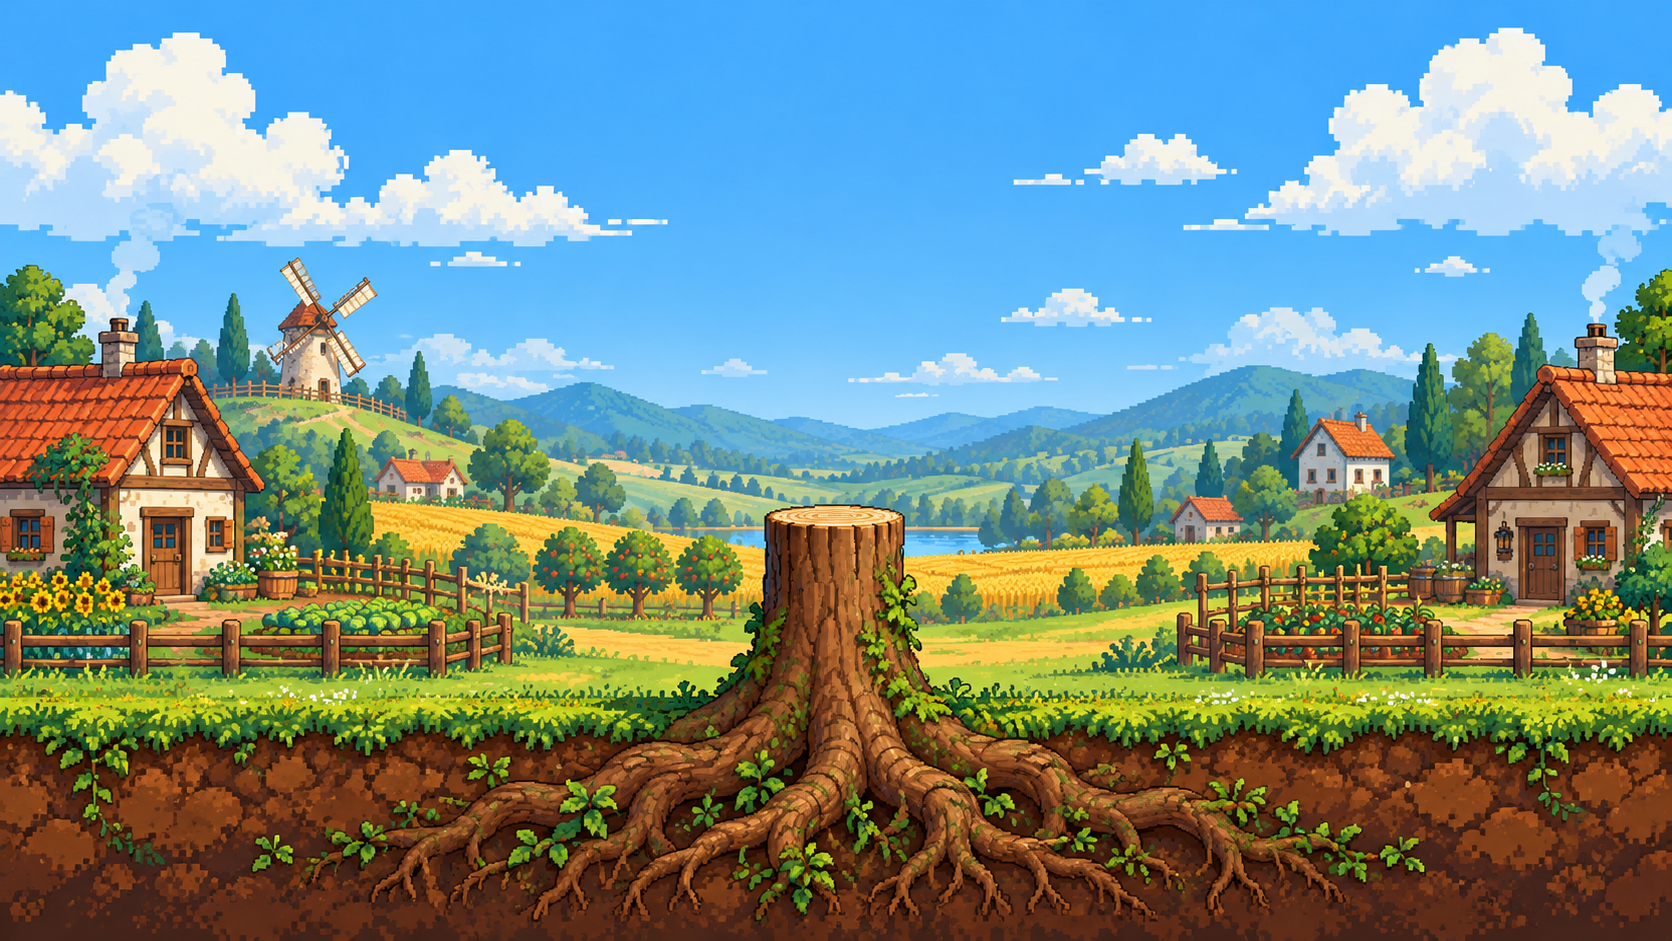
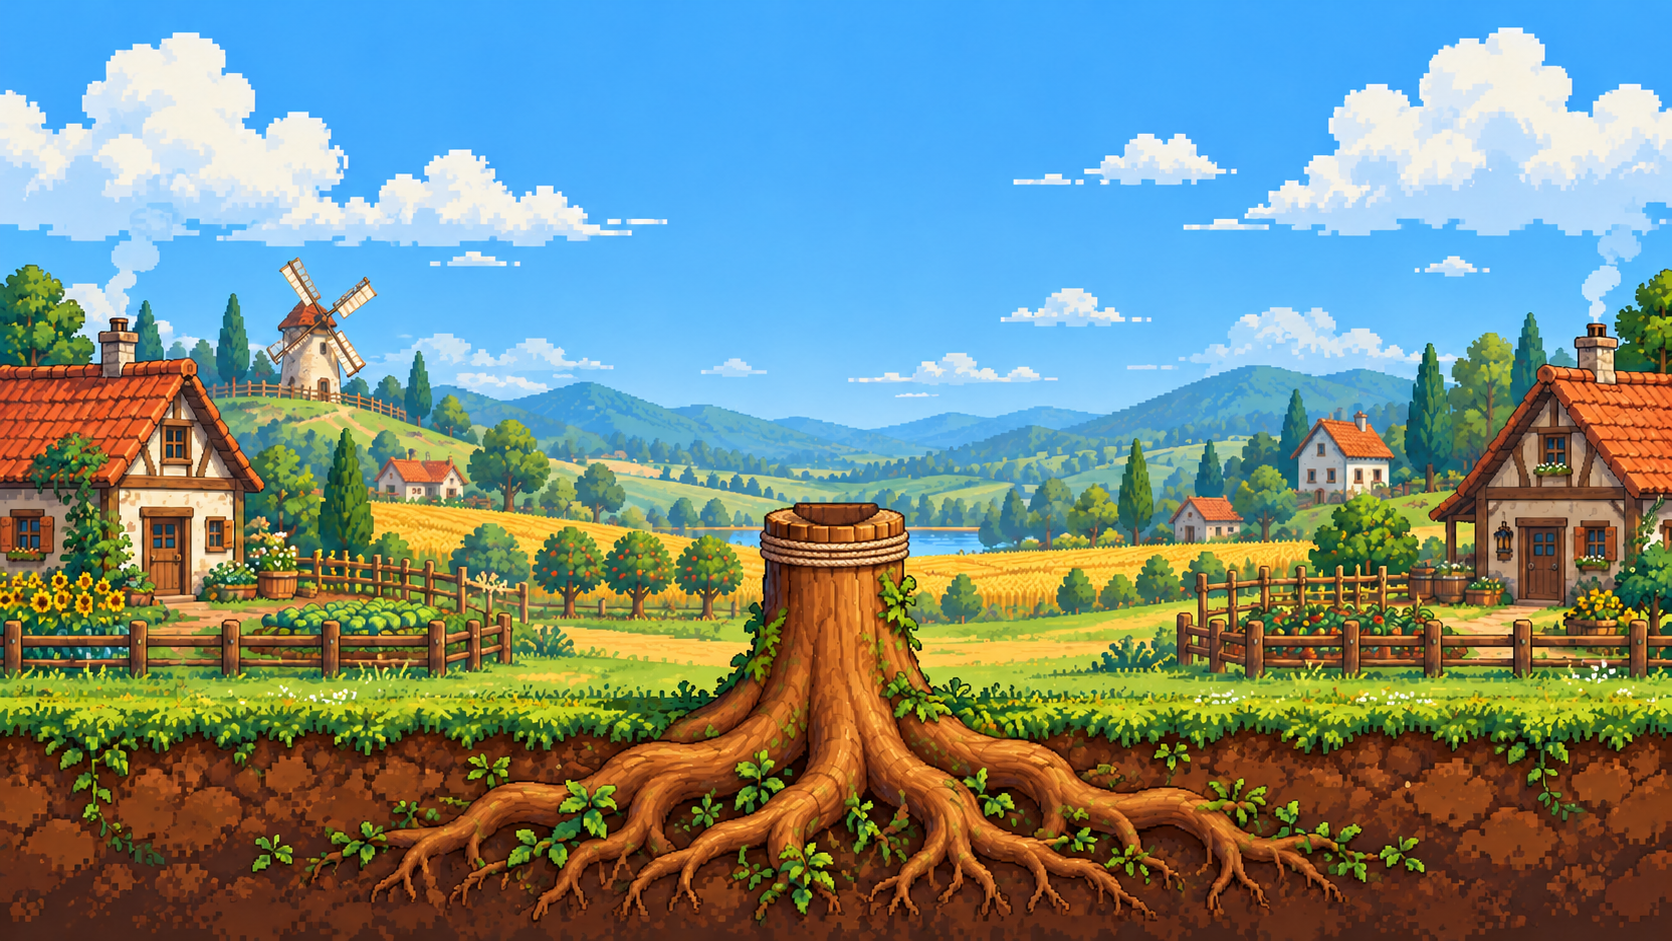
Match tree fulcrum to farm plank and verify music and reaction audio

Changed region(s): [[0.0, 0.2774, 1.0, 0.9862], [0.7464, 0.4931, 0.7775, 0.5239], [0.311, 0.4623, 0.3421, 0.4931]]

diff --git a/Assets/Tests/PlayMode/ControllerAudioTests.cs b/Assets/Tests/PlayMode/ControllerAudioTests.cs
@@ -68,6 +68,29 @@ namespace BalanceWithMe.Tests
             game.boy.Emote();Assert.That(game.sounds.LastCue,Is.EqualTo("emote_happy"));
             game.boy.TryAction(PlayerActions.ActionType.Punch);Assert.That(game.sounds.LastCue,Is.EqualTo("punch"));
         }
+        [UnityTest] public IEnumerator BackgroundLoopsAndBothEmoteJinglesPlay()
+        {
+            Assert.That(game.sounds.music.loop,Is.True);
+            Assert.That(game.sounds.music.isPlaying,Is.True);
+            Assert.That(game.sounds.music.clip,Is.SameAs(game.sounds.tracks[0]));
+            game.boy.Emote();Assert.That(game.sounds.LastCue,Is.EqualTo("emote_happy"));
+            yield return new WaitForSeconds(1.3f);
+            game.boy.Emote();Assert.That(game.sounds.LastCue,Is.EqualTo("emote_sad"));
+            game.sounds.NextTrack();
+            Assert.That(game.sounds.music.clip,Is.SameAs(game.sounds.tracks[1]));
+            Assert.That(game.sounds.music.isPlaying,Is.True);
+        }
+        [UnityTest] public IEnumerator HitAndResultReactionsHaveAudio()
+        {
+            game.boy.body.position=new Vector2(-.4f,.1f);
+            game.girl.body.position=new Vector2(.4f,.1f);
+            game.boy.TryAction(PlayerActions.ActionType.Punch);game.boy.AdvanceAction(.1f);
+            Assert.That(game.sounds.LastCue,Is.EqualTo("hit"));
+            game.Restart();Assert.That(game.sounds.LastCue,Is.EqualTo("start"));
+            game.boy.body.position=new Vector2(0,-4);
+            yield return null;
+            Assert.That(game.sounds.LastCue,Is.EqualTo("win"));
+        }
         [UnityTest] public IEnumerator GamepadStartRestartsAndNorthButtonEmotes()
         {
             var pad=InputSystem.AddDevice<Gamepad>();

diff --git a/Docs/VALIDATION.md b/Docs/VALIDATION.md
@@ -5,7 +5,7 @@
 Verified editor: **Unity 6000.3.26f1**. Recorded reference patch: **6000.3.24f1**; that exact patch has not been tested here. The project is ready for a Unity Editor playtest using the verified editor.
 
 - C# compilation and scene generation succeeded.
-- **12 PlayMode tests passed, 0 failed**:
+- **14 PlayMode tests passed, 0 failed**:
   1. Punch applies damage only once, respects cooldown and stuns the target.
   2. Push causes forward knockback without reducing health.
   3. Punch rejects targets behind the player or beyond reach.
@@ -18,6 +18,8 @@ Verified editor: **Unity 6000.3.26f1**. Recorded reference patch: **6000.3.24f1*
   10. Gamepad movement and jump input reach the physics motor.
   11. Two music loops and ten cues are wired; switching, mute, emote and action cue selection work.
   12. Gamepad emote and restart buttons work.
+  13. Background music actively plays and loops; both happy/sad emote jingles and track switching work.
+  14. Punch-hit, restart and win reactions select their audio cues.
 - All twelve synthesized audio files were checked as nonempty 24 kHz, mono, 16-bit PCM WAVs.
 - A graphical Unity Editor render was inspected at 1920 × 1080: both characters are visible; the rope-bound plank and saddle meet the rooted tree; farming-village scenery, parchment scorecards, timer, controls and restart sign render together.
 - Native importer Sprite subassets replaced the earlier serialized generated character sprites after the graphical review revealed missing character rendering.
@@ -36,3 +38,7 @@ Headless input tests temporarily adjust and then restore Input System focus sett
 2. Press Play and focus the Game view; use the keyboard or connected gamepads.
 3. Run Window → General → Test Runner → PlayMode → Run All.
 4. Capture Full Layout updates Docs/gameplay_layout.png inside the Editor without building an app.
+
+## Final matched-wood check
+
+The trunk was refined to match the plank’s honey/chestnut wood, rope bindings and dark outlines, retaining the farming-village layout. The regenerated 1920 × 1080 full-scene image was visually inspected. All twelve WAV files have nonzero sample peaks and RMS energy; no silent or empty audio files were found. The 14-test suite passed on Unity 6000.3.26f1 after the artwork update.

diff --git a/Docs/DEVELOPMENT.md b/Docs/DEVELOPMENT.md
@@ -39,3 +39,7 @@ A new original 16:9 village background contains farmhouses, crop fields, fences,
 Tiny5 (SIL OFL 1.1) provides pixel lettering. Wood-rimmed parchment panels hold farmer names, health, match wins, the round clock, instructions and restart. Match wins persist across restarts within the same scene session; reloading the scene resets them. The timer freezes when the round ends.
 
 Character frames and the new farm plank are now imported as native Unity Sprite subassets using alpha-trimmed rectangles, rather than runtime-created serialized Sprite assets. This fixes missing character rendering found during the graphical layout review. The new plank has rope bindings and a central saddle aligned with the tree trunk. LayoutScreenshot warms font glyphs and renders the complete desktop view at 1920 × 1080.
+
+## Matched platform and fulcrum
+
+The stump material and palette now match the movable farm plank: honey/chestnut wood, golden highlights, clean outlines, matching rope wraps and a small bearing cap. Only background artwork changed; combat, controls and board physics are retained. Audio verification additionally checks active looping playback, both emote jingles, hit reactions and round-result cues.

diff --git a/README.md b/README.md
@@ -4,7 +4,7 @@ A local two-player 2D pixel-art game made with Unity and VS Code. A chibi boy an
 
 <p align="center"><img src="Docs/gameplay_layout.png" alt="Full desktop game layout: two players on a balancing plank above a rooted tree in a farming village" width="960"></p>
 
-> Full 16:9 layout captured from the Unity scene. The rooted tree replaces the former rock support; farmhouses, fields and a windmill frame the central play area. Character sprite sheets are kept in the project assets and are not displayed in this README.
+> Full 16:9 layout captured from the Unity scene. The plank and rope-wrapped tree fulcrum share honey-brown timber, matching rope bindings and a centered wooden bearing; farmhouses, fields and a windmill frame the central play area. Character sprite sheets are kept in the project assets and are not displayed in this README.
 
 ## Download & play
 

diff --git a/Docs/ASSET_GUIDE.md b/Docs/ASSET_GUIDE.md
@@ -12,3 +12,7 @@ Sprite import metadata is included. Use Point filtering, no mipmaps, and uncompr
 
 - `Assets/Art/Props/farm_balance_plank.png`: original transparent rustic plank with rope-bound ends and a small central saddle matching the tree fulcrum.
 - Tiny5 font: SIL OFL 1.1, license alongside the font in Assets/Art/Fonts.
+
+## Matched wood refinement
+
+The current farm_village_tree.png uses simplified honey/chestnut wood, dark pixel outlines, rope wraps and a central bearing cap matched to farm_balance_plank.png. The village placement and exposed roots remain unchanged. Updated full-scene preview: Docs/gameplay_layout.png. Edit prompt and built-in imagegen provenance: Docs/generation_prompts.json.
